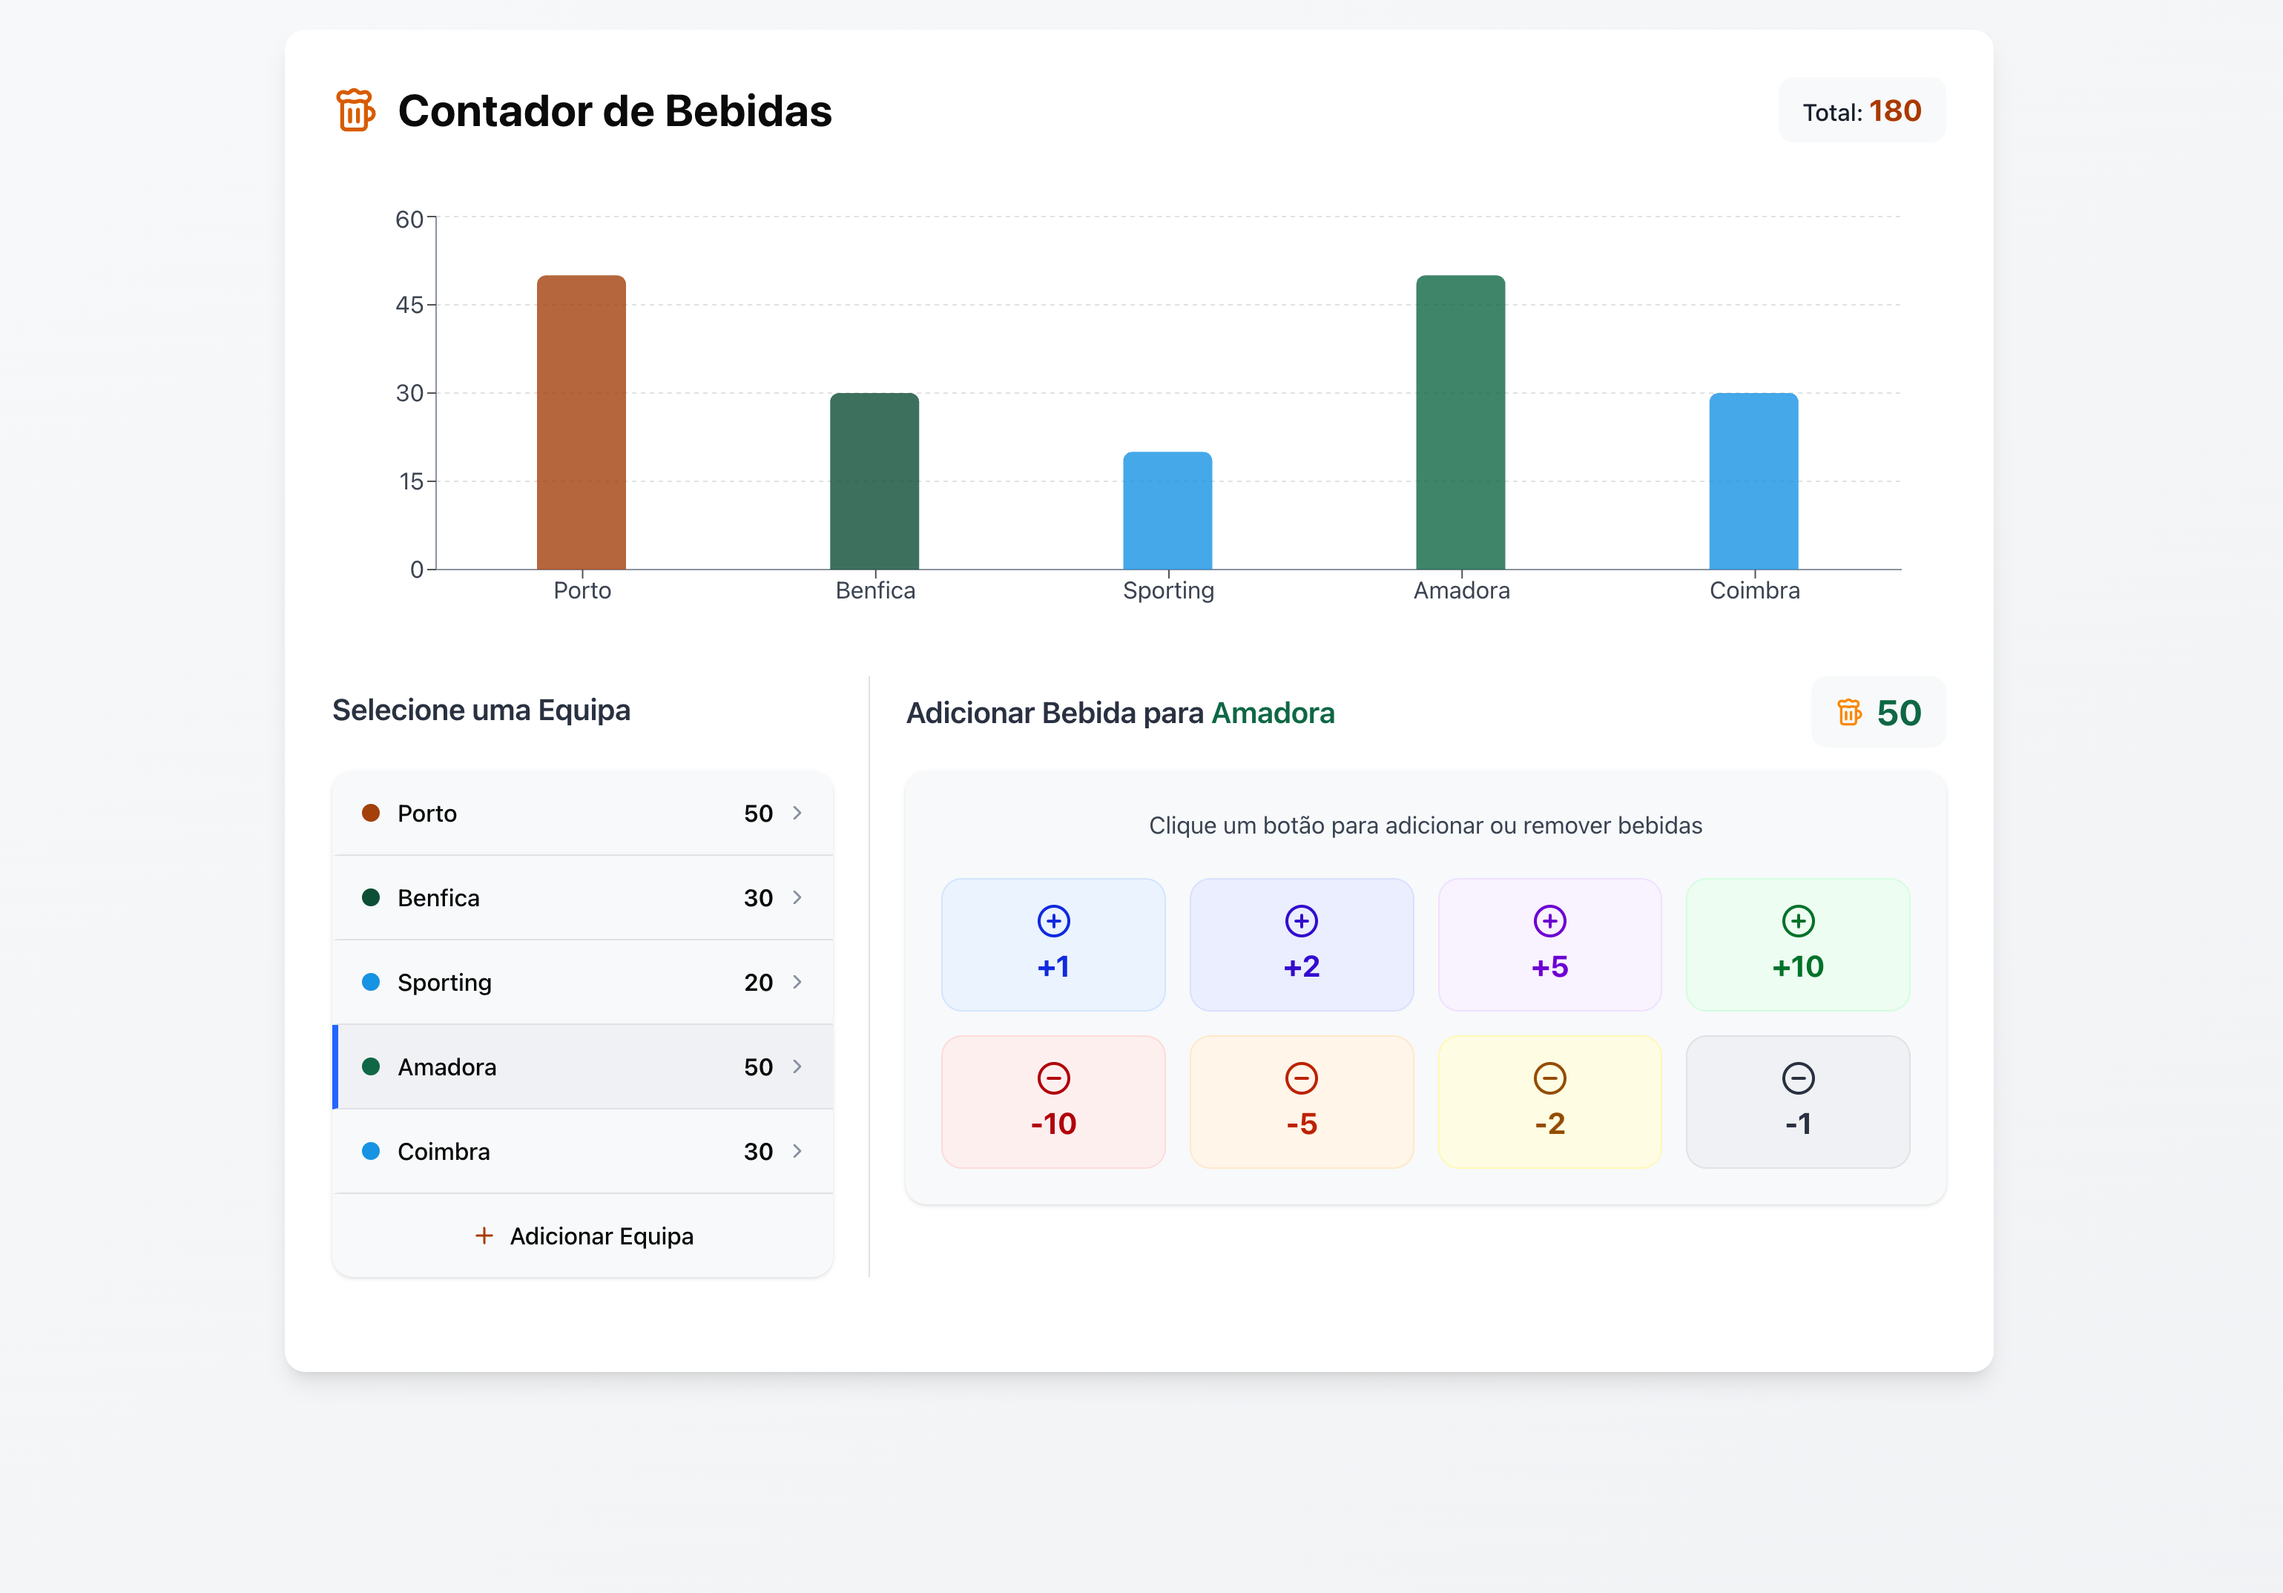
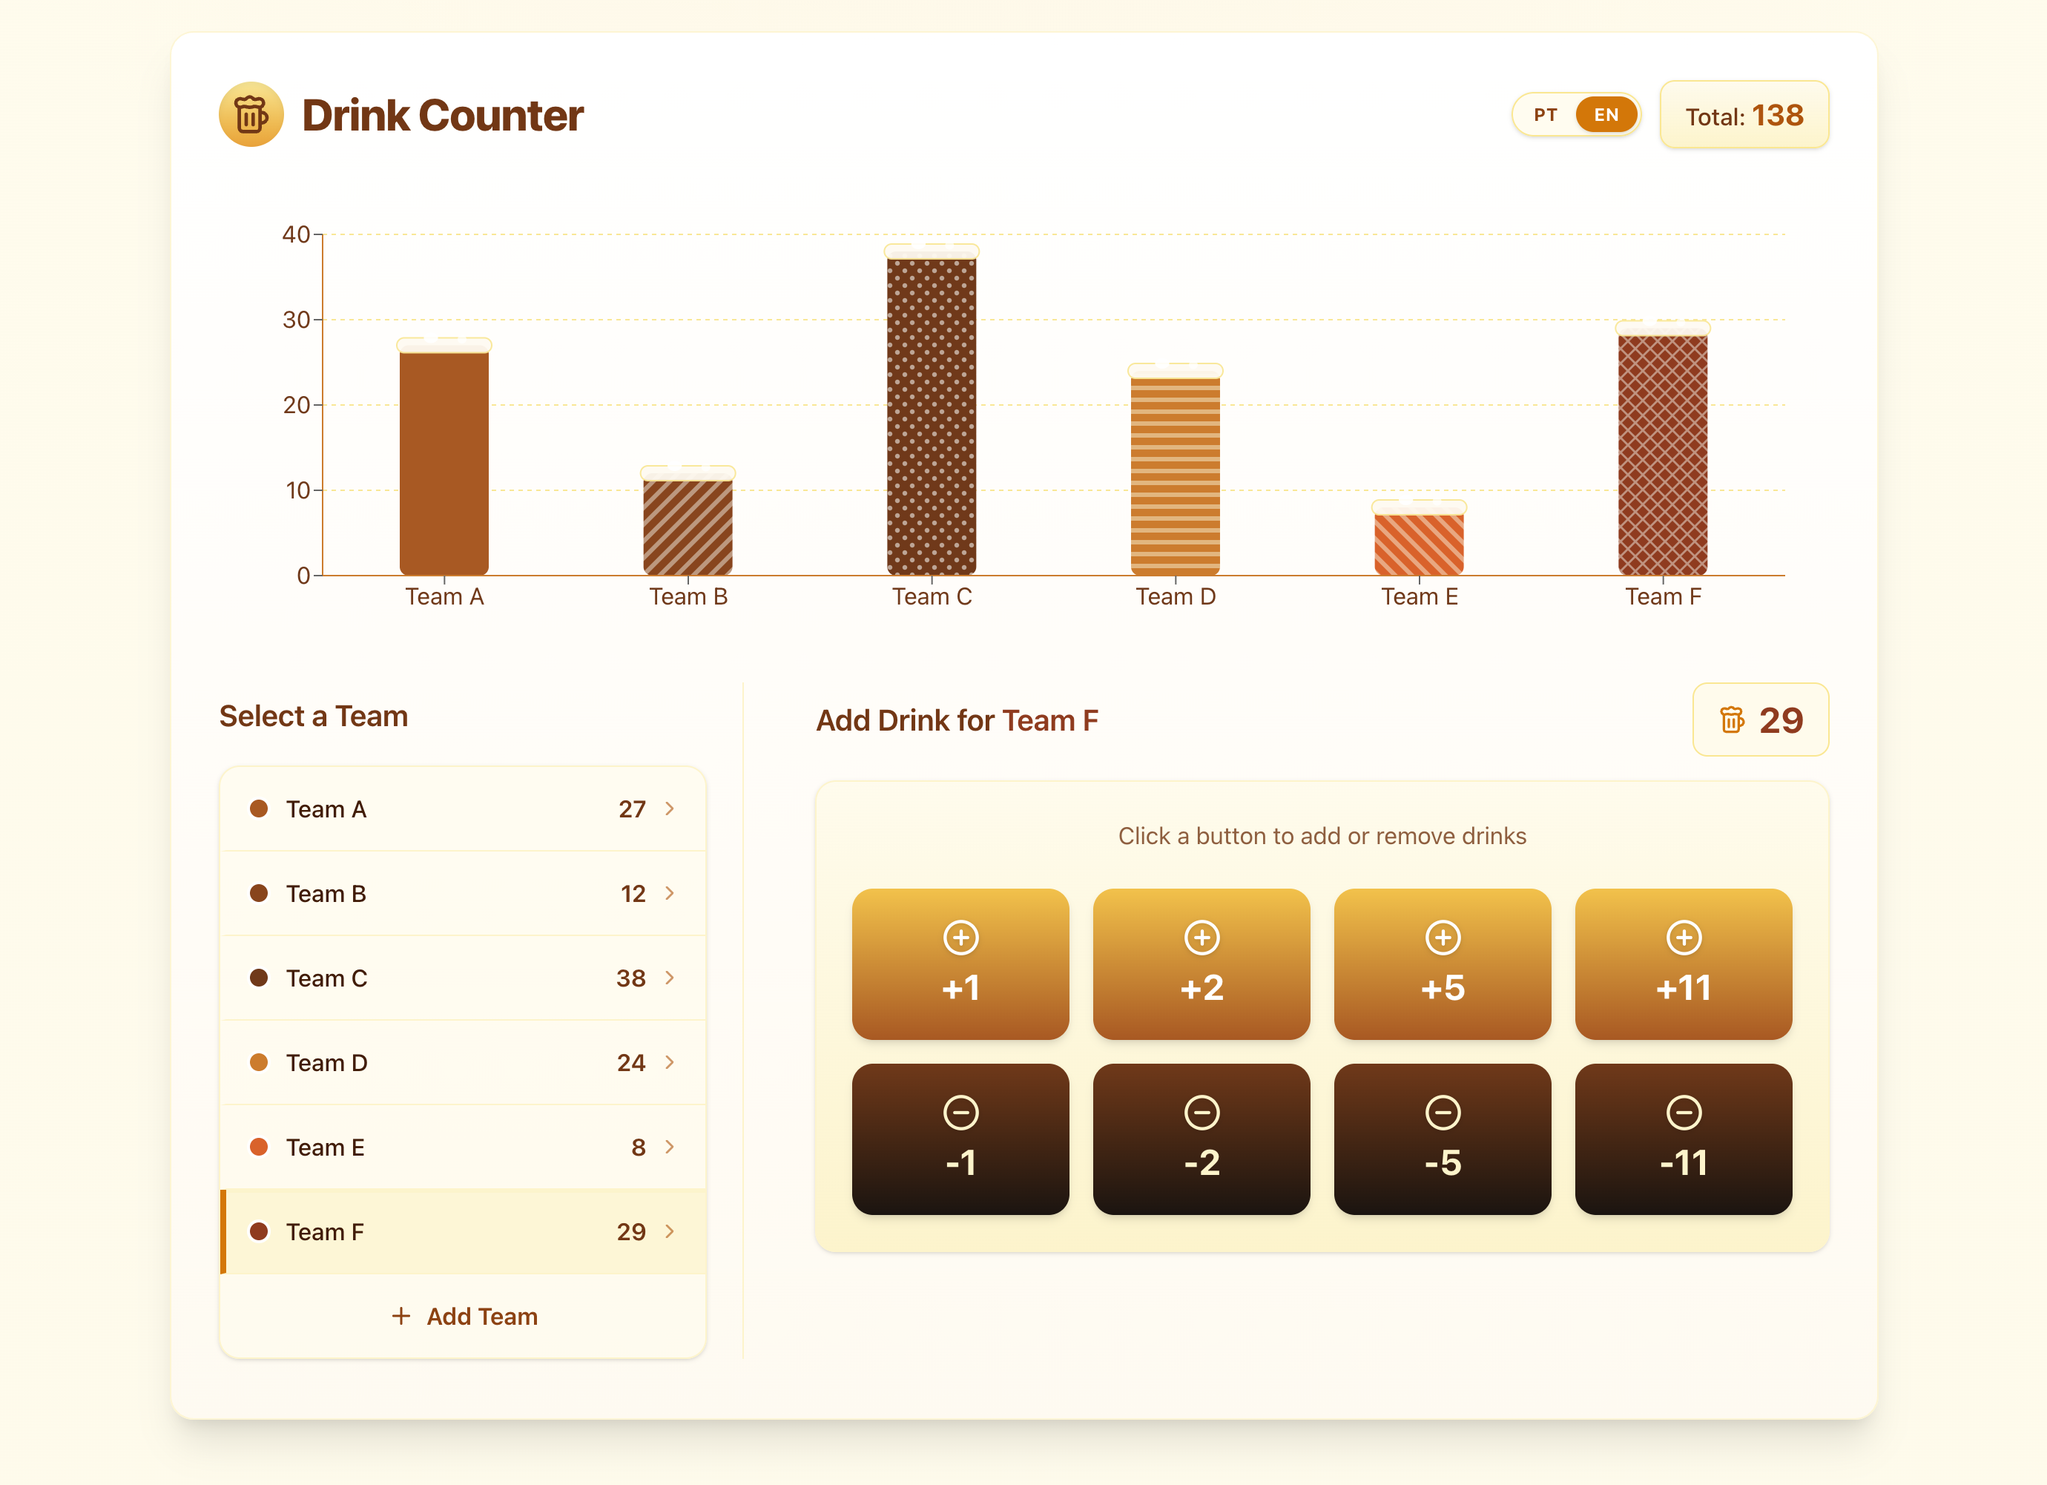
fix: change some metadata and docs

diff --git a/src/components/GraphDisplay.tsx b/src/components/GraphDisplay.tsx
@@ -197,8 +197,8 @@ export default function GraphDisplay({ teams, onSelect }: GraphDisplayProps) {
   }
 
   return (
-    <div className="h-72 mb-8">
-      <ResponsiveContainer width="100%" height="100%">
+    <div className="h-72 mb-8 w-full">
+      <ResponsiveContainer width="100%" height="100%" minWidth={0} minHeight={0}>
         <BarChart
           data={teams}
           margin={{ top: 18, right: 30, left: 10, bottom: 10 }}

diff --git a/README.md b/README.md
@@ -2,22 +2,22 @@
 
 [![Docker](https://github.com/aanogueira/beer/actions/workflows/docker.yml/badge.svg)](https://github.com/aanogueira/beer/actions/workflows/docker.yml)
 [![License: MIT](https://img.shields.io/badge/License-MIT-amber.svg)](LICENSE)
-[![Next.js](https://img.shields.io/badge/Next.js-15-black?logo=next.js)](https://nextjs.org)
+[![Next.js](https://img.shields.io/badge/Next.js-16-black?logo=next.js)](https://nextjs.org)
 
-A small, friendly web app that tallies drinks per team — perfect for a Futsal tournament, a pub league, or any group competition. Bilingual (English / Português), browser‑local persistence, no accounts.
+A small, friendly web app that tallies drinks per team — perfect for a futsal tournament, a pub league, or any group competition. Bilingual (English / Português), browser‑local persistence, no accounts.
 
 ![Preview](docs/preview.png)
 
-## ✨ Features
+## Features
 
 - **Per‑team counter** — add or remove drinks in steps of 1, 2, 5, or 11.
-- **Live leaderboard chart** — bar chart updates as you click.
-- **Bilingual UI** — toggle between Portuguese and English in the header (your choice is remembered).
+- **Live leaderboard chart** — bar chart updates as you click; click a bar to switch to that team.
+- **Beer‑themed bars** — each bar wears a foam cap, and teams get distinct colors plus a fill pattern (stripes, dots, crosshatch…) so similar shades stay easy to tell apart.
+- **Bilingual UI** — toggle between Portuguese and English in the header; your choice is remembered.
 - **Persistent locally** — teams and counts survive a refresh via `localStorage`. No backend, no accounts.
 - **No accidental deletes** — drunk‑proofed: teams can only be added, not removed (clear browser storage if you really need to).
-- **Distinct team colors** — each new team picks a unique color from a curated palette.
 
-## 🚀 Quickstart
+## Quickstart
 
 ```bash
 npm install
@@ -33,12 +33,12 @@ npm run build
 npm start
 ```
 
-## 🐳 Docker
+## Docker
 
 Pull the latest published image and run it:
 
 ```bash
-docker run --rm -p 3000:3000 ghcr.io/aanogueira/beer:latest
+docker run --rm -p 3000:3000 ghcr.io/techquestsdev/beer:latest
 ```
 
 Or build it yourself:
@@ -50,30 +50,30 @@ docker run --rm -p 3000:3000 beer
 
 The image is a multi‑stage build using Next.js' `standalone` output. It runs as a non‑root `node` user and ships a `HEALTHCHECK` against `/`.
 
-## 🤖 Continuous Integration
+## Continuous Integration
 
-`.github/workflows/docker.yml` builds the image on every PR (no push) and on every push to `main` and on `v*.*.*` tags it publishes multi‑arch (`linux/amd64`, `linux/arm64`) images to **GHCR**:
+`.github/workflows/docker.yml` builds the image on every PR (no push). On every push to `main` and on `v*.*.*` tags it publishes multi‑arch (`linux/amd64`, `linux/arm64`) images to **GHCR**:
 
-- `ghcr.io/aanogueira/beer:latest` — head of `main`
-- `ghcr.io/aanogueira/beer:sha-<short>` — pinned to a commit
-- `ghcr.io/aanogueira/beer:<version>` — for tagged releases
+- `ghcr.io/techquestsdev/beer:latest` — head of `main`
+- `ghcr.io/techquestsdev/beer:sha-<short>` — pinned to a commit
+- `ghcr.io/techquestsdev/beer:<version>` — for tagged releases
 
-Caching uses GitHub Actions cache (`type=gha`) so warm builds finish in seconds.
+Caching uses GitHub Actions cache (`type=gha`) so warm builds finish in seconds. Dependabot keeps npm, GitHub Actions, and the Docker base image up to date.
 
-## 💾 How data is stored
+## How data is stored
 
-All teams and counts live in your browser's `localStorage` under the key `teams`. Clear site data (or open a different browser) and you start fresh. Need to remove a team? Edit the JSON in DevTools → Application → Local Storage. 😉
+All teams and counts live in your browser's `localStorage` under the key `teams`. Clear site data (or open a different browser) and you start fresh. Need to remove a team? Edit the JSON in DevTools → Application → Local Storage.
 
-## 🛠 Tech
+## Tech
 
-- [Next.js 15](https://nextjs.org) (App Router, standalone output)
+- [Next.js 16](https://nextjs.org) (App Router, standalone output)
 - [React 19](https://react.dev)
 - [Tailwind CSS 4](https://tailwindcss.com)
-- [Recharts](https://recharts.org) for the bar chart
+- [Recharts 3](https://recharts.org) for the bar chart
 - [lucide-react](https://lucide.dev) for icons
 - TypeScript
 
-## 📝 Origin story
+## Origin story
 
 A small app whipped up in a few hours, originally for a friend running a futsal tournament side‑bet on which team's supporters would drink the most. It stuck around because it's just *fun*.
 
@@ -89,11 +89,11 @@ Aplicação simples para contar o número de bebidas consumidas por equipa. Cons
 #### Funcionalidades
 
 - **Contador por equipa** — adicionar ou remover em passos de 1, 2, 5 ou 11.
-- **Gráfico em direto** — barra de classificação atualiza ao clicar.
-- **Interface bilingue** — alterna entre Português e Inglês no cabeçalho (a escolha fica guardada).
+- **Gráfico em direto** — a barra atualiza ao clicar; clica numa barra para selecionar essa equipa.
+- **Visual com tema de cerveja** — cada barra tem uma "espuma" no topo, e as equipas recebem cores distintas com um padrão (riscas, pontos, quadriculado…) para se distinguirem mesmo com tons parecidos.
+- **Interface bilingue** — alterna entre Português e Inglês no cabeçalho; a escolha fica guardada.
 - **Persistência local** — equipas e contagens sobrevivem a um refresh via `localStorage`. Sem backend, sem contas.
 - **À prova de bêbados** — não dá para remover equipas (esse é o ponto). Para limpar, apaga o storage do browser.
-- **Cores distintas** — cada nova equipa recebe uma cor única de uma paleta curada.
 
 #### Começar
 
@@ -107,7 +107,7 @@ Abre <http://localhost:3000>.
 #### Docker
 
 ```bash
-docker run --rm -p 3000:3000 ghcr.io/aanogueira/beer:latest
+docker run --rm -p 3000:3000 ghcr.io/techquestsdev/beer:latest
 ```
 
 #### Onde estão os dados?
@@ -120,6 +120,6 @@ App feita em poucas horas para um amigo que precisava de uma forma divertida de 
 
 </details>
 
-## 📄 License
+## License
 
 MIT — see [LICENSE](LICENSE).
